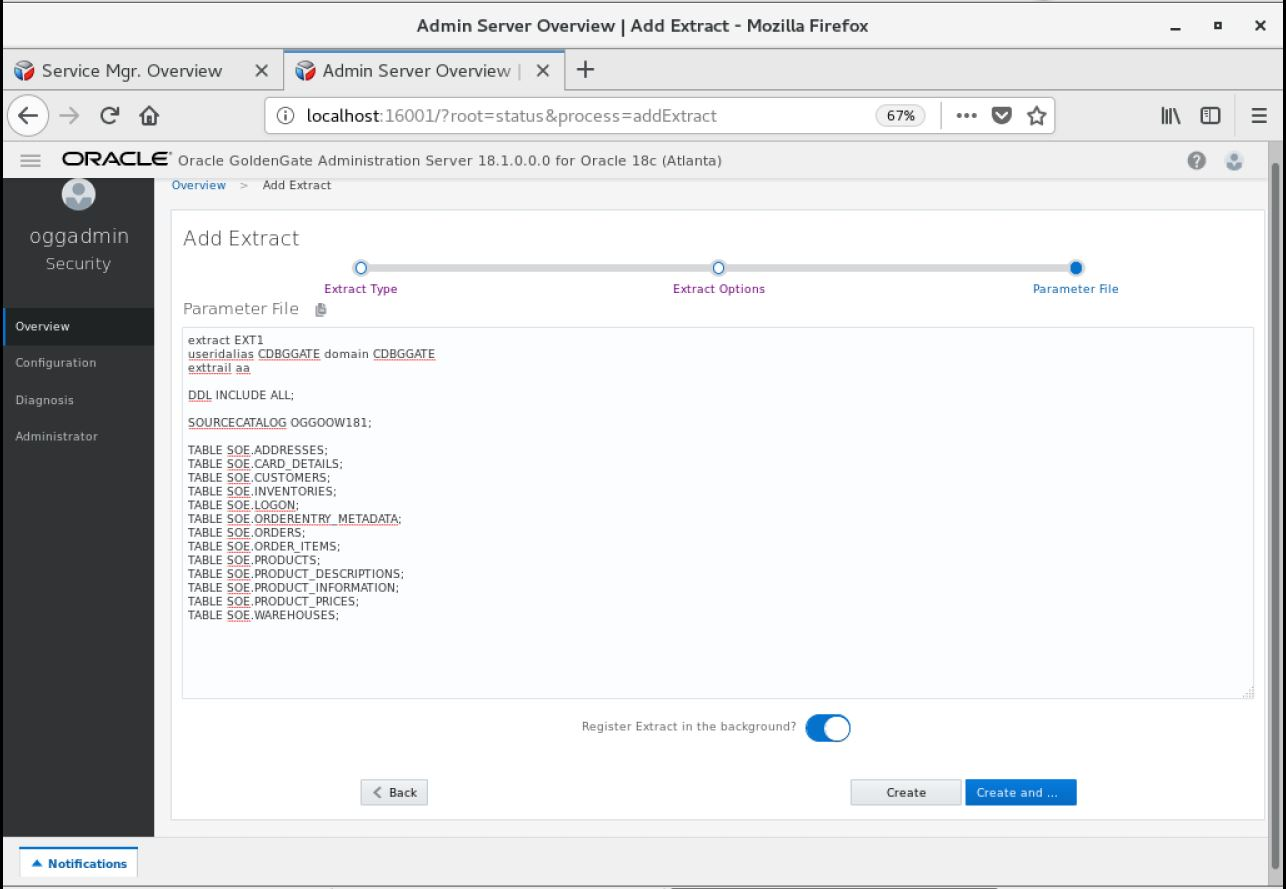
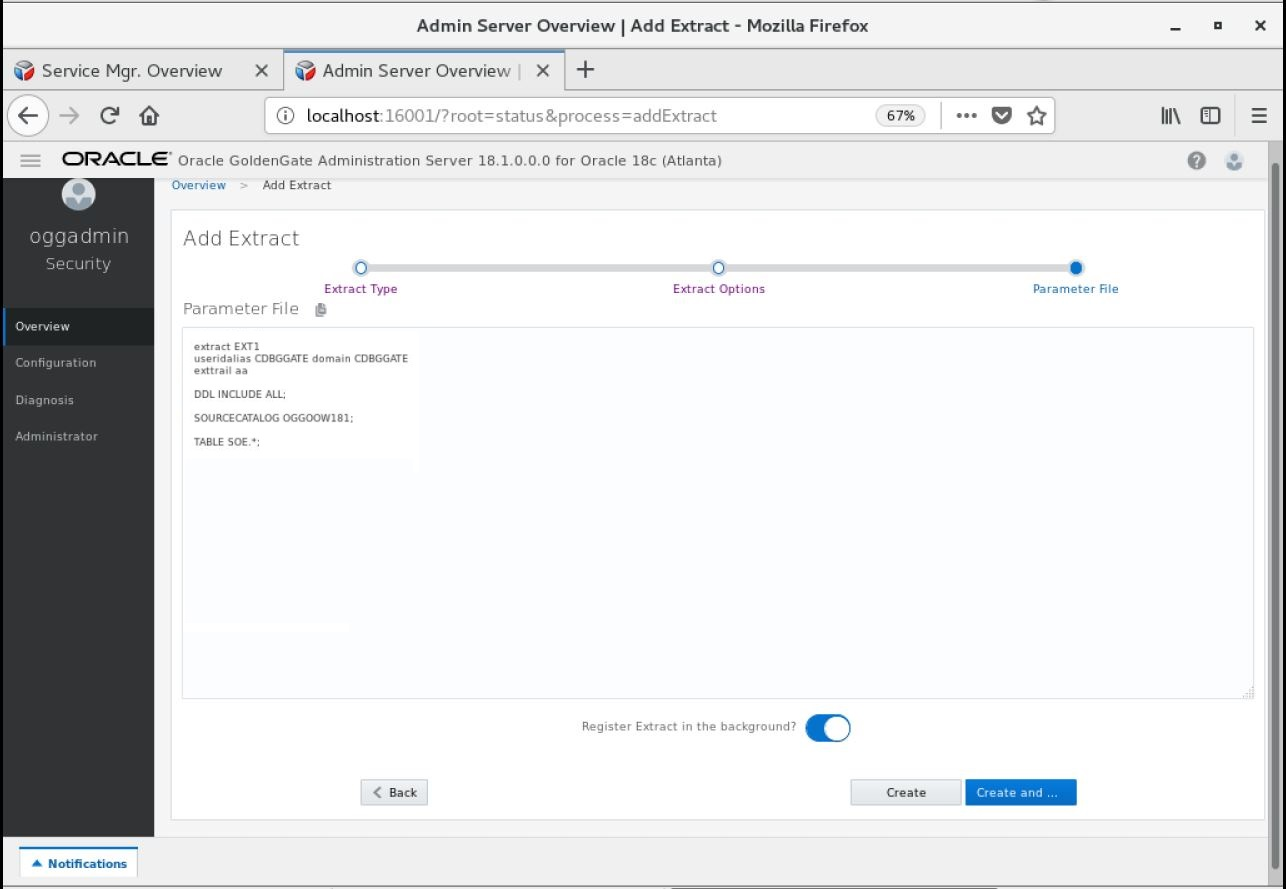
Updated the sample to modify for the workshop

Changed region(s): [[0.1244, 0.3645, 0.3421, 0.6985]]

diff --git a/workshops/gg/CloudWorkshop_GoldenGate Microservices_300.md b/workshops/gg/CloudWorkshop_GoldenGate Microservices_300.md
@@ -7,7 +7,7 @@ Update December 28, 2018
 
 This lab walk you through unidirectional and DDL replication between to database schemas using Goldengate 18.1 micro services web interface in a Ravello environment.
 
-![](images/300/Lab300_image104.png)
+![](images/300/Lab300_image104.PNG)
 
 This lab supports the following use cases:
 -	Migration of on-premise pluggable databases to a cloud based environment.
@@ -54,21 +54,21 @@ Note: You will be required to login again.  Use the same Administrator account t
 
 Figure 7a-2:
 
-![](images/300/Lab300_image120.png) 
+![](images/300/Lab300_image120.PNG) 
  
 
 3.	Before you can create an Extract, you need to setup a credential alias for the GoldenGate user (C##GGATE).  This is done from the Configuration menu option in the grey bar on the left of the screen (Figure 7a-3).
 
 Figure 7a-3:
 
-![](images/300/Lab300_image130.png) 
+![](images/300/Lab300_image130.PNG) 
  
 
 4.	On the Configuration page, select the plus ( + ) sign to begin adding a credential.  At this point, you will be able to add a Credential Alias (Figure 7a-4).  You will need to add the alias for a user that will connect to CDB (ORCL) and PDB (OGGOOW181).  The CDB alias will be used to connect to the database to read the required files for extraction operations, and the PDB1 user will be used to add TRANDATA to the schemas used in replication.
 
 Figure 7a-4:
 
-![](images/300/Lab300_image150.png) 
+![](images/300/Lab300_image150.PNG) 
  
 
 You will notice that a Domain name and Credential Alias were added along with the User ID and Password.  After adding the user to the credential store, you will reference it via its domain name and credential alias.
@@ -85,7 +85,7 @@ CDBGGATE	CDBGGATE	C##GGATE@ORCL	ggate
 
 Figure 7a-5:
 
-![](images/300/Lab300_image160.png) 
+![](images/300/Lab300_image160.PNG) 
  
 
 6.	Add SCHEMATRANDATA to the SOE schema using the SGGATE Credential Alias.  
@@ -93,14 +93,14 @@ After logging into the database as described in step 5 for OGGOOW181, find the T
 
 Figure 7a-6:
 
-![](images/300/Lab300_image170.png) 
+![](images/300/Lab300_image170.PNG) 
  
 
 You will notice that after you click Submit, there is no return message that states the operation was successful.  You can verify that SCHEMATRANDATA has been added by looking searching by Schema (Figure 7a-7).  To do this, click on the magnifying glass and provide the Schema name.
 
 Figure 7a-7:
 
-![](images/300/Lab300_image180.png) 
+![](images/300/Lab300_image180.PNG) 
  
 
 7.	Add the Protocol user.
@@ -109,7 +109,7 @@ As you did in Step 4, click the plus sign ( + ) next to the word Credentials.  T
 
 Figure 7a-8:
 
-![](images/300/Lab300_image190.png) 
+![](images/300/Lab300_image190.PNG) 
  
 
 For now, just leave this login alone.  It will be used in a later step. 
@@ -119,14 +119,14 @@ Navigate back to the Overview page of the Administration Server (Figure 7a-9).  
 
 Figure 7a-9:
 
-![](images/300/Lab300_image300.png) 
+![](images/300/Lab300_image300.PNG) 
 
 
 After clicking the plus sign ( + ), you are taken to the Add Extract page (Figure 7a-10).  Here you can choose from three different types of Extracts.  You will be installing an Integrated Extract.  Click Next.
 
 Figure 7a-10:
 
-![](images/300/Lab300_image210.png) 
+![](images/300/Lab300_image210.PNG) 
 
 
 The next page of the Add Extract process, is to provide the basic information for the Extract. Items required have a star ( * ) next to them.  Provide the required information and then click Next (Figure 7a-11).  Keep in mind that the credentials needed to register the Extract need to be against the CDB (ORCL). Use the CDB domain and alias that you setup previously.
@@ -135,14 +135,22 @@ When using the CDB credential, at the bottom of the page, you will be presented 
 
 Figure 7a-11:
 
-![](images/300/Lab300_image220.png) 
+![](images/300/Lab300_image220.PNG) 
 
-![](images/300/Lab300_image225.png) 
+![](images/300/Lab300_image225.PNG) 
  
 
 On the last page of the Add Extract process, you are presented with a parameter file (Figure 7a-12).  The parameter file is partially filled out, but missing the TABLE parameters. Insert the following list of TABLE parameter values into the parameter file.
 DDL INCLUDE ALL;
 SOURCECATALOG OGGOOW181
+TABLE SOE.*;
+
+Notes: ~/Desktop/Software/extract.prm has these contents for copying.
+
+You can also include specific table names for capturing the data changes, but extract will skip the create table DDLs. Sample TABLE parameter vales are given below.
+
+DDL INCLUDE ALL; 
+SOURCECATALOG OGGOOW181 
 TABLE SOE.ADDRESSES;
 TABLE SOE.CUSTOMERS;
 TABLE SOE.ORDERS;
@@ -155,18 +163,17 @@ TABLE SOE.PRODUCT_DESCRIPTIONS;
 TABLE SOE.WAREHOUSES;
 TABLE SOE.ORDERENTRY_METADATA;
 
-Notes: ~/Desktop/Software/extract.prm has these contents for copying.
 Once the TABLE statements are added, click Create and Run at the bottom of the page.
 
 Figure 7a-12:
  
-![](images/300/Lab300_image230.png) 
+![](images/300/Lab300_image230.PNG) 
 
 The Administration Server page will refresh when the process is done registering the Extract with the database, and will show that the Extract is up and running (Figure 7a-13).
 
 Figure 7a-13:
  
-![](images/300/Lab300_image240.png) 
+![](images/300/Lab300_image240.PNG) 
 
 Lab 7b: Configure Uni-Directional Replication (Distribution Server)
 
@@ -180,28 +187,28 @@ Steps:
 
 Figure 7b-1:
 
-![](images/300/Lab300_image250.png) 
+![](images/300/Lab300_image250.PNG) 
 
 
 2.	Open the Distribution Server page for your first deployment (Figure 7b-2).
 
 Figure 7b-2:
 
-![](images/300/Lab300_image260.png) 
+![](images/300/Lab300_image260.PNG) 
 
 3.	Click the plus sign ( + ) to add a new Distribution Path (Figure 7b-3).
 
 Figure 7b-3:
 
-![](images/300/Lab300_image270.png) 
+![](images/300/Lab300_image270.PNG) 
 
 4.	On the Add Path page, fill in the required information (Figure 7b-4).  Make note that the default protocol for distribution service is secure websockets (wss).  You will need to change this to websockets (ws).
 
 Figure 7b-4:
 
-![](images/300/Lab300_image280.png) 
+![](images/300/Lab300_image280.PNG) 
 
-![](images/300/Lab300_image285.png) 
+![](images/300/Lab300_image285.PNG) 
 
 Notice the drop down with the values WS, WSS, UDT and OGG.  These are the protocols you can select to use for transport.  Since you are setting up an unsecure uni-directional replication, make sure you select WS, then provide the following target information:
 Hostname: localhost
@@ -215,7 +222,7 @@ After filling out the form, click Create and Run at the bottom of the page.
 
 Figure 7b-5:
  
-![](images/300/Lab300_image290.png) 
+![](images/300/Lab300_image290.PNG) 
 
 
 Lab 7c: Configure Uni-Directional Replication (Receiver Server)
@@ -230,13 +237,13 @@ Steps:
 
 Figure 7c-1:
  
-![](images/300/Lab300_image305.png) 
+![](images/300/Lab300_image305.PNG) 
 
 2.	Click on the Receiver Server link to open the Receiver Server page (Figure 7c-2).  Verify that everything is configured.
 
 Figure 7c-2:
 
-![](images/300/Lab300_image310.png) 
+![](images/300/Lab300_image310.PNG) 
 
 
 Lab 7d: Configure Uni-Directional Replication (Integrated Replicat)
@@ -251,41 +258,41 @@ Steps:
 
 Figure 7d-1:
  
-![](images/300/Lab300_image320.png) 
+![](images/300/Lab300_image320.PNG) 
  
 2.	Open the Administration Server for the second deployment by clicking on the link (Figure 7d-2).
 
 Figure 7d-2:
 
-![](images/300/Lab300_image330.png) 
+![](images/300/Lab300_image330.PNG) 
 
 3.	Open the Configuration option to add your credentials needed to connect to PDB2 (OGGOOW182) (Figure 7d-3).  After creating the credential, login and verify that it works.
 You will need to create 1 credential for the user to connect to PDB2.  We will use the same common user as before, C##GGATE@OGGOOW182, with password ggate.  Click Submit when finished.
 
 Figure 7d-3:
  
-![](images/300/Lab300_image340.png) 
+![](images/300/Lab300_image340.PNG) 
 
 
 4.	Navigate back to the Overview page on the Administration Server.  Here you will begin to create your Integrated Replicat (Figure 7d-4).  Click the plus sign ( + ) to open the Add Replicat process.
 
 Figure 7d-4:
  
-![](images/300/Lab300_image350.png) 
+![](images/300/Lab300_image350.PNG) 
 
 
 5.	With the Add Replicat page open, you want to create an Integrated Replicat.  Make sure the radio button is selected and click Next (Figure 7d-5).
 
 Figure 7d-5:
  
-![](images/300/Lab300_image360.png) 
+![](images/300/Lab300_image360.PNG) 
 
 
 6.	Fill in the Replicat options form with the required information (Figure 7d-6).  Your trail name should match the trail name you saw in the Receiver Server.  Once you are done filling everything out, click the Next button at the bottom of the screen.
 
 Figure 7d-6:
  
-![](images/300/Lab300_image370.png) 
+![](images/300/Lab300_image370.PNG) 
 
 7.	You are next taken to the Parameter File page.  On this page, you will notice that a sample parameter file is provided (Figure 7d-7).  You will have to remove the MAP statement and replace it with the information below:
 
@@ -305,6 +312,6 @@ Once the parameter file has been updated, click the Create and Run button at the
 
 Figure 7d-7:
  
-![](images/300/Lab300_image380.png) 
+![](images/300/Lab300_image380.PNG) 
 
 At this point, you should have a fully functional uni-directional replication environment. You can start Swingbench and begin testing.  See Appendix A for further instructions.
